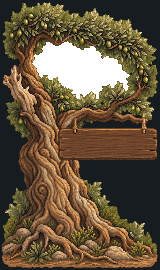
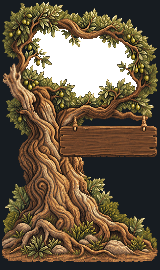
feat: widen the HUD tree's canopy window
The redrawn tree opens a wider, squarer window through its canopy, so
more of each habitat shows. Its sign sits a little higher, so the stage
and habitat lines move up with it. The README screenshot follows.

diff --git a/Docs/ASSET_CREDITS.md b/Docs/ASSET_CREDITS.md
@@ -32,7 +32,7 @@ AI-generated assets are recorded here as well. They are not third-party work, bu
 | Effect sprites, 9 PNG | AI-generated with ChatGPT image generation, 2026-09-17. Art direction, review, and approval by Roy Davidovich | Original project asset, no third-party licence | The puff where a myna falls, the sparkle where the feather is collected, and the dust a placed pod kicks up | `Assets/Art/Vfx/`. 32 x 32 RGBA, 32 pixels per unit, point filter. Three fade frames each, following the same strongest-frame-first convention as the burst, so all four effects play through the same code |
 | Cage puff sprites, 3 PNG | AI-generated with ChatGPT image generation, 2026-09-22. Art direction, review, and approval by Roy Davidovich | Original project asset, no third-party licence | The cage coming apart when the last myna falls and the feather is freed | `Assets/Art/Vfx/`. 32 x 32 RGBA, 32 pixels per unit, point filter, following the same three-frame strong-to-faint arc as the other effects so they play through one code path. Drawn in the cage's own bars rather than as generic debris, and deliberately opening on a silhouette close to `cage-closed.png` so the effect takes over from the sprite it replaces instead of reading as something new appearing |
 | Habitat screen heroes, 6 of 6 PNG | AI-generated with ChatGPT image generation, 2026-09-20 and 2026-09-21, to the briefs in `tmp/prompts/07-habitat-screens/`. Art direction, review, and approval by Roy Davidovich | Original project asset, no third-party licence | The full-screen art behind the habitat screen that plays before each stage | `Assets/Art/UI/habitat-first-steps-garden-hero.png`, `habitat-orchard-grove-hero.png`, `habitat-stream-bank-hero.png`, `habitat-lagoon-shore-hero.png`, `habitat-rocky-upland-hero.png`, `habitat-overgrown-courtyard-hero.png`. 480 x 270 each, opaque, 32 pixels per unit, point filter, shown at 4x. A walled limestone garden with ivy, pomegranate and a hoopoe; a shaded citrus row with a hoopoe on the orchard floor; shallow water over stones under a cut earth bank with a kingfisher on an overhanging branch; a brackish salt shallow at sunset with one pelican wading; dry stone terraces and low scrub with a chukar in the open; a paved courtyard gone to weed at dusk with a myna flock holding the hollow tree. Each leaves its bottom-left as quiet ground, because the habitat name and its two lines sit there |
-| HUD tree, 2 PNG | AI-generated with ChatGPT image generation, 2026-09-24, to the brief in `tmp/prompts/13-hud-tree/`. Art direction, review, and approval by Roy Davidovich | Original project asset, no third-party licence | The gameplay HUD: the olive tree in the left third of the screen, and the hollow that holds each life and pod icon | `Assets/Art/UI/hud-tree.png`, 160 x 270, drawn at 4x to fill the 640 x 1080 column, opaque on the camera's own `#171C21` except the transparent canopy window the stage's habitat hero shows through. `Assets/Art/UI/hud-hollow.png`, 18 x 18, transparent, placed by the HUD rather than baked into the trunk so the count follows the game; the existing `icon-life.png` and `icon-pod.png` sit inside it at 56 px. Point filter, uncompressed |
+| HUD tree, 2 PNG | AI-generated with ChatGPT image generation, 2026-09-24, the tree redrawn 2026-09-25 with a wider canopy window, to the brief in `tmp/prompts/13-hud-tree/`. Art direction, review, and approval by Roy Davidovich | Original project asset, no third-party licence | The gameplay HUD: the olive tree in the left third of the screen, and the hollow that holds each life and pod icon | `Assets/Art/UI/hud-tree.png`, 160 x 270, drawn at 4x to fill the 640 x 1080 column, opaque on the camera's own `#171C21` except the transparent canopy window the stage's habitat hero shows through. `Assets/Art/UI/hud-hollow.png`, 18 x 18, transparent, placed by the HUD rather than baked into the trunk so the count follows the game; the existing `icon-life.png` and `icon-pod.png` sit inside it at 56 px. Point filter, uncompressed |
 | `icon-help.png`, 1 PNG | Generated by Claude, 2026-09-20, as a placeholder | Original project asset, no third-party licence | The lifebuoy in the pause panel's corner that reopens How to play | `Assets/Art/UI/icon-help.png`. 32 x 32 RGBA, 32 pixels per unit, point filter, shown at 56 px. A ring in the kit's outline brown, banded cream and rust in eight segments the way a lifebuoy is actually painted - four segments read as a two-tone ring rather than as stripes at this size. **Not commissioned and not drawn by hand:** it is plotted in code, and `tmp/prompts/08-help-icon/` commissions the replacement. Sits beside the three 32 x 32 HUD icons from the UI kit and should end up matching them |
 | How-to-play strip, 3 PNG | Screenshots of BomberBird itself, captured 2026-09-20 by Roy Davidovich from the running game | Original project asset, no third-party licence | The three frames on the How to play panel: walking, a placed pod, the burst | `Assets/Art/UI/howto-1-walk.png`, `howto-2-place.png`, `howto-3-burst.png`. 360 x 270 each, point filter, uncompressed. Cut from 1920 x 1080 game captures at a fixed four-by-three-cell window on stage 1, so the three read as one place over three moments rather than three unrelated pictures. Not drawn: every pixel in them is already credited above as tile, bird or pod art |
 | TextMesh Pro Essential Resources, 37 files | Unity Technologies, shipped inside `com.unity.ugui` 2.0.0 | Unity Companion License. Liberation Sans is SIL OFL 1.1, text at `Assets/TextMesh Pro/Fonts/LiberationSans - OFL.txt`. EmojiOne attribution at `Assets/TextMesh Pro/Sprites/EmojiOne Attribution.txt` | Every piece of TextMesh Pro text: the stage HUD and the pause overlay | `Assets/TextMesh Pro/`, imported 2026-09-13. TextMesh Pro resolves these resources from that exact path, so unlike other third-party material they cannot be moved under `Assets/ThirdParty/` |
